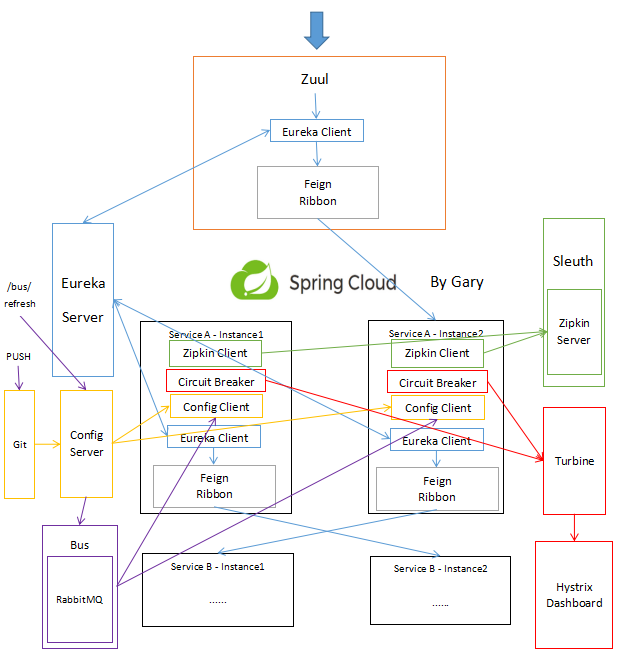
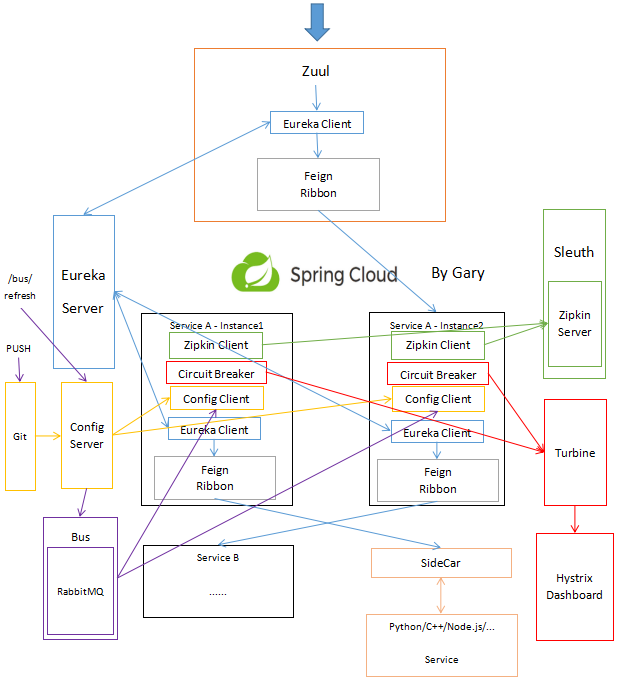
添加和修改

diff --git a/forSideCar.py b/forSideCar.py
@@ -1,29 +1,19 @@
-import httplib
-
+import datetime
+import httplib2
 from twisted.web import server, resource
 from twisted.internet import reactor, endpoints
+
 
 class Health(resource.Resource):
     isLeaf = True
 
     def render_GET(self, request):
-     request.setHeader("content-type", "application/json")
-     return '{"status":"UP"}\n'
-
-class Fortune(resource.Resource):
-    isLeaf = True
-
-def render_GET(self, request):
-    conn = httplib.HTTPConnection('localhost', 5678)
-    conn.request("GET", "/fortunes")
-    res = conn.getresponse()
-    fortune = res.read()
-    request.setHeader("content-type", "text/plain")
-    return fortune
+        request.responseHeaders.addRawHeader("content-type", "application/json")
+        print(datetime.datetime.now().strftime('%Y-%m-%d %H:%M:%S') + ' SideCar健康检查')
+        return '{"status":"UP"}'.encode('utf-8')
 
 
-root = resource.Resource()
-root.putChild('health', Health())   
-root.putChild('', Fortune())
-endpoints.serverFromString(reactor, "tcp:5680").listen(server.Site(root))
+root = Health()
+root.putChild('health', Health())
+endpoints.serverFromString(reactor, "tcp:port=5680").listen(server.Site(root))
 reactor.run()

diff --git a/SideCar/src/main/java/com/gary/sideCar/SideCarApplication.java b/SideCar/src/main/java/com/gary/sideCar/SideCarApplication.java
@@ -2,6 +2,7 @@ package com.gary.sideCar;
 
 import org.springframework.boot.SpringApplication;
 import org.springframework.boot.autoconfigure.SpringBootApplication;
+import org.springframework.cloud.netflix.sidecar.EnableSidecar;
 
 @SpringBootApplication
 @EnableSidecar

diff --git a/README.md b/README.md
@@ -458,6 +458,20 @@
   		"status":"UP"
 	}
 
+### 10.2 SideCar简单使用：
+### 10.2.1 添加依赖
+![](https://i.imgur.com/kh4IJlr.png)
+### 10.2.2 配置文件
+![](https://i.imgur.com/tojowtz.png)
+### 10.2.3 添加注解
+![](https://i.imgur.com/KeE91oJ.png)
+### Eureka Web UI：
+![](https://i.imgur.com/NX9yusl.png)
+### forSideCar.py：
+![](https://i.imgur.com/PIFyLXK.png)
+### 如果关掉python程序，Eureka Web UI：
+![](https://i.imgur.com/k9WOela.png)
+
 ---
 # 11.总结
 ### 在网上看到一个例子非常贴切[2]：
